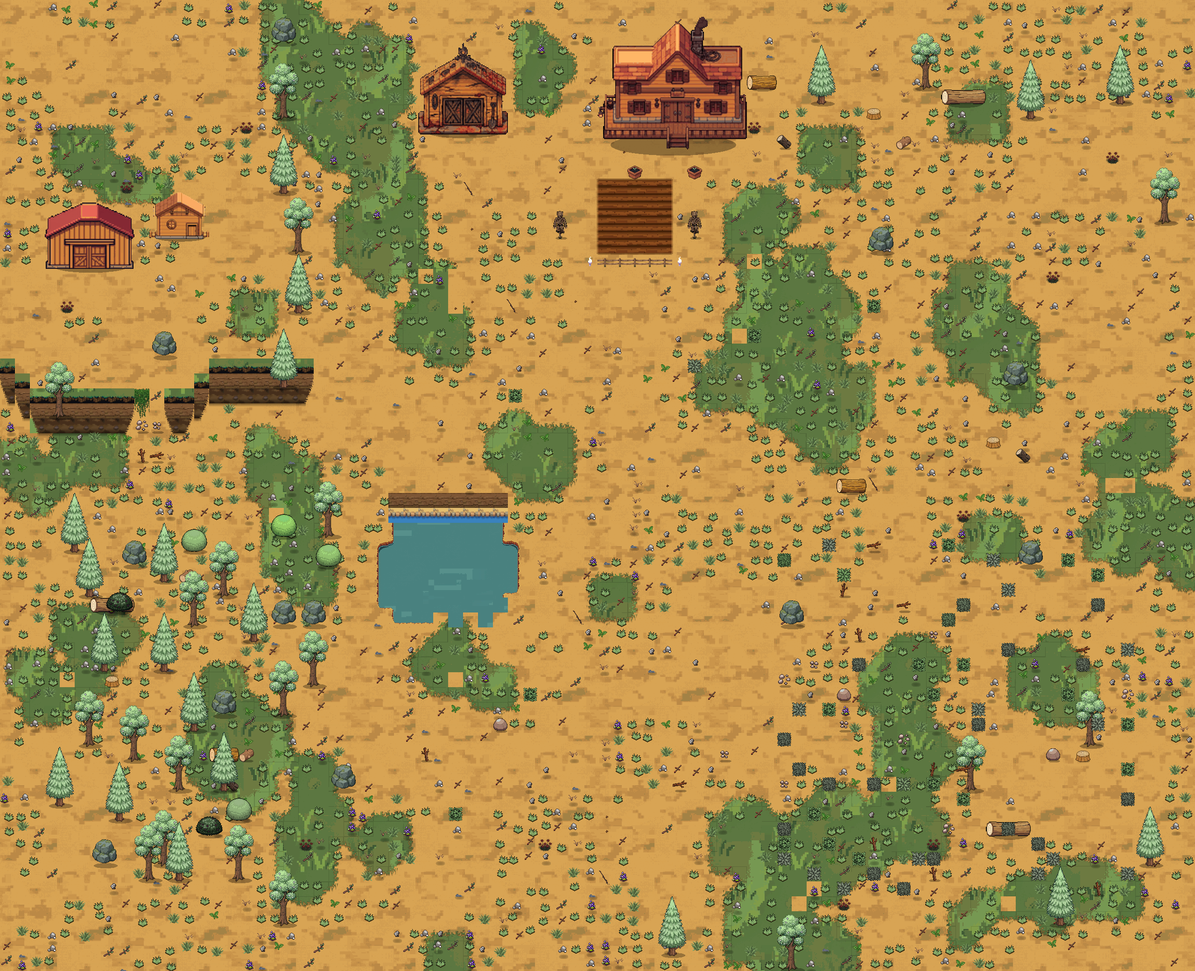
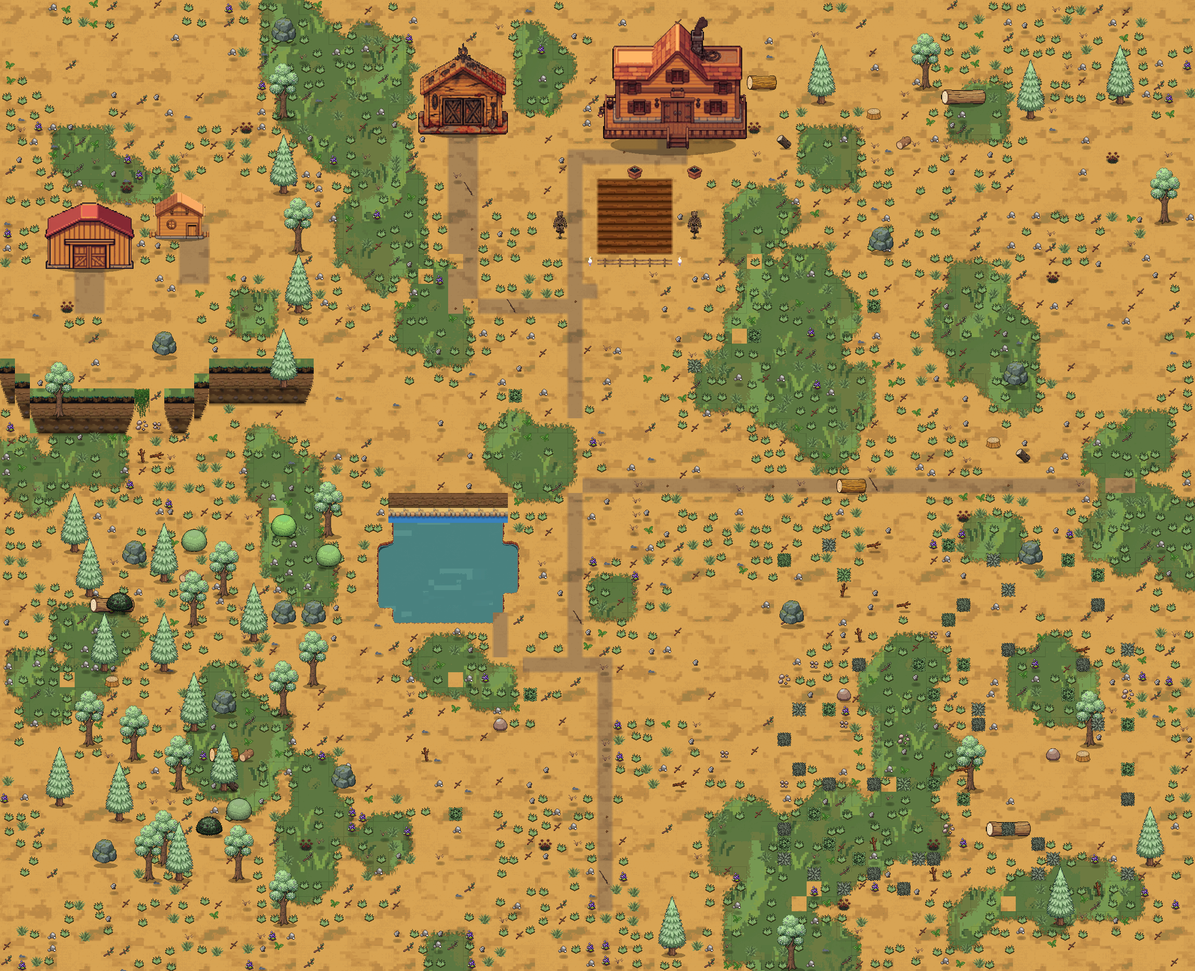
🐛 fix: S1R 폴리시 잔여 2건 — 연못 남안 노치·길 tan-on-tan 해소
①연못 남안 1셀 돌출/구멍: 원인은 마스크가 아니라 _build_ground16 Wang
쌍 축약(물=rank 최하)이라 물가에 잔디·길이 닿으면 물이 쌍에서 탈락하던
렌더 버그. 물 셀은 항상 물↔땅 4_0 손그림 shore로 합성(_shore_is_land,
길·밭=부두 방어) + 물가 잔디패치 맨흙 패드(_g16_near_water, 8이웃).
순수 시각 — _grid·충돌·세이브 불변. 마스크 파라미터 무변경(결정성 확인).

②십자 길 소실(ADR-0057 "길 타일 분리"): 단일출처 전환 후 길=마당 맨흙
동일 이미지 회귀. dirt_field에서 오프라인 베이크한 다진 흙길 전용
path_field(make_path_field.py — 명도 ΔL*≈12.6·채도↓·warm 유지·색수 11→9)
를 _bf_dirt에 배선, _bf_earth는 dirt_field 유지. SS off 폴백 종전 동일.

검증: home_full_dump 육안 판정(남안 연속 shore 런·십자 길 식별) +
선별 회귀 5종 PASS(wang_boundary·water_spike·cliff·building_grounding·
scatter_variation).

diff --git a/game/tools/make_path_field.py b/game/tools/make_path_field.py
@@ -1,0 +1,93 @@
+#!/usr/bin/env python3
+# -*- coding: utf-8 -*-
+# ─────────────────────────────────────────────────────────────────────────────
+# 다진 흙길(PATH) 전용 베이스 필드 생성기 — S1R 폴리시 / ADR-0057 "길 타일 분리"
+#
+# 왜 필요한가: 단일출처(_TERRAIN_SINGLE_SOURCE) 전환 뒤 main.gd는 마당 맨흙(_bf_earth)과
+#   길(_bf_dirt)에 **같은 dirt_field.png**를 물려 썼다(`_bf_earth = _bf_dirt.duplicate()`).
+#   그래서 안식 마당의 십자 길이 tan-on-tan으로 완전히 소실됐다(ADR-0057 지적 그대로).
+#   스타듀도 마당 흙과 다진 길은 별개 타일이다.
+#
+# 왜 오프라인인가(ADR-0058 물가 정책과 같은 결): 지형 톤은 런타임 절차 후처리로 만들지 않는다.
+#   이 유틸을 **한 번 실행**해 정적 필드 PNG를 굽고 커밋한다 — 런타임은 그 PNG만 읽는다.
+#
+# 파이프라인: single_source/dirt_field.png(팔레트-락 단일출처) → 픽셀 순수 HSV 톤맵 → path_field.png.
+#   *같은 출처*를 톤만 눌러 파생하므로 팔레트 계열·그레인·씸리스(타일링 이음매)가 그대로 보존된다.
+#   단조 매핑이라 색 수는 늘지 않는다(ADR-0057 저색 crisp 원칙).
+#
+# 톤 방향(asset-ruleset §17 "채도 아닌 **명도**로 구분", §9 warm 베이스 유지):
+#   · 명도 ↓ (다져져 그늘진 흙) — 마당 맨흙과 mean L* 약 13 차 → 셀 경계에서 확실히 읽힘
+#   · 채도 ↓ (모래빛 노랑 → 가라앉은 회갈색)
+#   · 색상은 warm 갈색 계열 유지(살짝만 붉은 쪽 — 팔레트 이탈 방지)
+#   외곽선 없음(지형=무외곽선 락). 결정적(난수 없음·픽셀 순수 함수).
+#
+# 사용: python3 game/tools/make_path_field.py
+# 산출: game/assets/terrain16/single_source/path_field.png (+ stdout 톤 리포트)
+# ─────────────────────────────────────────────────────────────────────────────
+import colorsys
+import os
+
+from PIL import Image
+
+VAL_MUL = 0.78    # 명도 배율(다짐 그늘)
+SAT_MUL = 0.80    # 채도 배율(회갈색화)
+HUE_LERP = 0.30   # 색상을 HUE_TARGET 쪽으로 당기는 가중치
+HUE_TARGET = 0.075  # 살짝 붉은 갈색(원본 tan hue ≈ 0.10) — warm 계열 유지
+
+
+def tone(rgb):
+    r, g, b = [v / 255.0 for v in rgb]
+    h, s, v = colorsys.rgb_to_hsv(r, g, b)
+    h = h + (HUE_TARGET - h) * HUE_LERP
+    s = min(1.0, s * SAT_MUL)
+    v = min(1.0, v * VAL_MUL)
+    r2, g2, b2 = colorsys.hsv_to_rgb(h, s, v)
+    return tuple(int(round(c * 255.0)) for c in (r2, g2, b2))
+
+
+def lstar(rgb):
+    """sRGB → CIE L* (명도 차 정량 리포트용)."""
+    def lin(u):
+        u /= 255.0
+        return u / 12.92 if u <= 0.04045 else ((u + 0.055) / 1.055) ** 2.4
+    y = 0.2126 * lin(rgb[0]) + 0.7152 * lin(rgb[1]) + 0.0722 * lin(rgb[2])
+    return 116.0 * (y ** (1.0 / 3.0) if y > 0.008856 else 7.787 * y + 16.0 / 116.0) - 16.0
+
+
+def mean_lstar(counts):
+    total = sum(n for n, _ in counts)
+    return sum(n * lstar(c) for n, c in counts) / total
+
+
+def main():
+    here = os.path.dirname(os.path.abspath(__file__))
+    ss = os.path.normpath(os.path.join(here, "..", "assets", "terrain16", "single_source"))
+    src_path = os.path.join(ss, "dirt_field.png")
+    out_path = os.path.join(ss, "path_field.png")
+
+    src = Image.open(src_path).convert("RGB")
+    lut = {}
+    out = Image.new("RGB", src.size)
+    sp = src.load()
+    op = out.load()
+    for y in range(src.size[1]):
+        for x in range(src.size[0]):
+            c = sp[x, y]
+            if c not in lut:
+                lut[c] = tone(c)
+            op[x, y] = lut[c]
+    out.save(out_path)
+
+    sc = src.getcolors(1 << 20)
+    oc = out.getcolors(1 << 20)
+    l_src = mean_lstar(sc)
+    l_out = mean_lstar(oc)
+    print("✅ 저장:", out_path, "(%dx%d)" % out.size)
+    print("  색 수: 마당 흙 %d → 길 %d (저색 유지)" % (len(sc), len(oc)))
+    print("  mean L*: 마당 흙 %.1f → 길 %.1f (차 %.1f)" % (l_src, l_out, l_src - l_out))
+    print("  대표색: %s L*=%.1f → %s L*=%.1f"
+          % (max(sc)[1], lstar(max(sc)[1]), tone(max(sc)[1]), lstar(tone(max(sc)[1]))))
+
+
+if __name__ == "__main__":
+    main()
